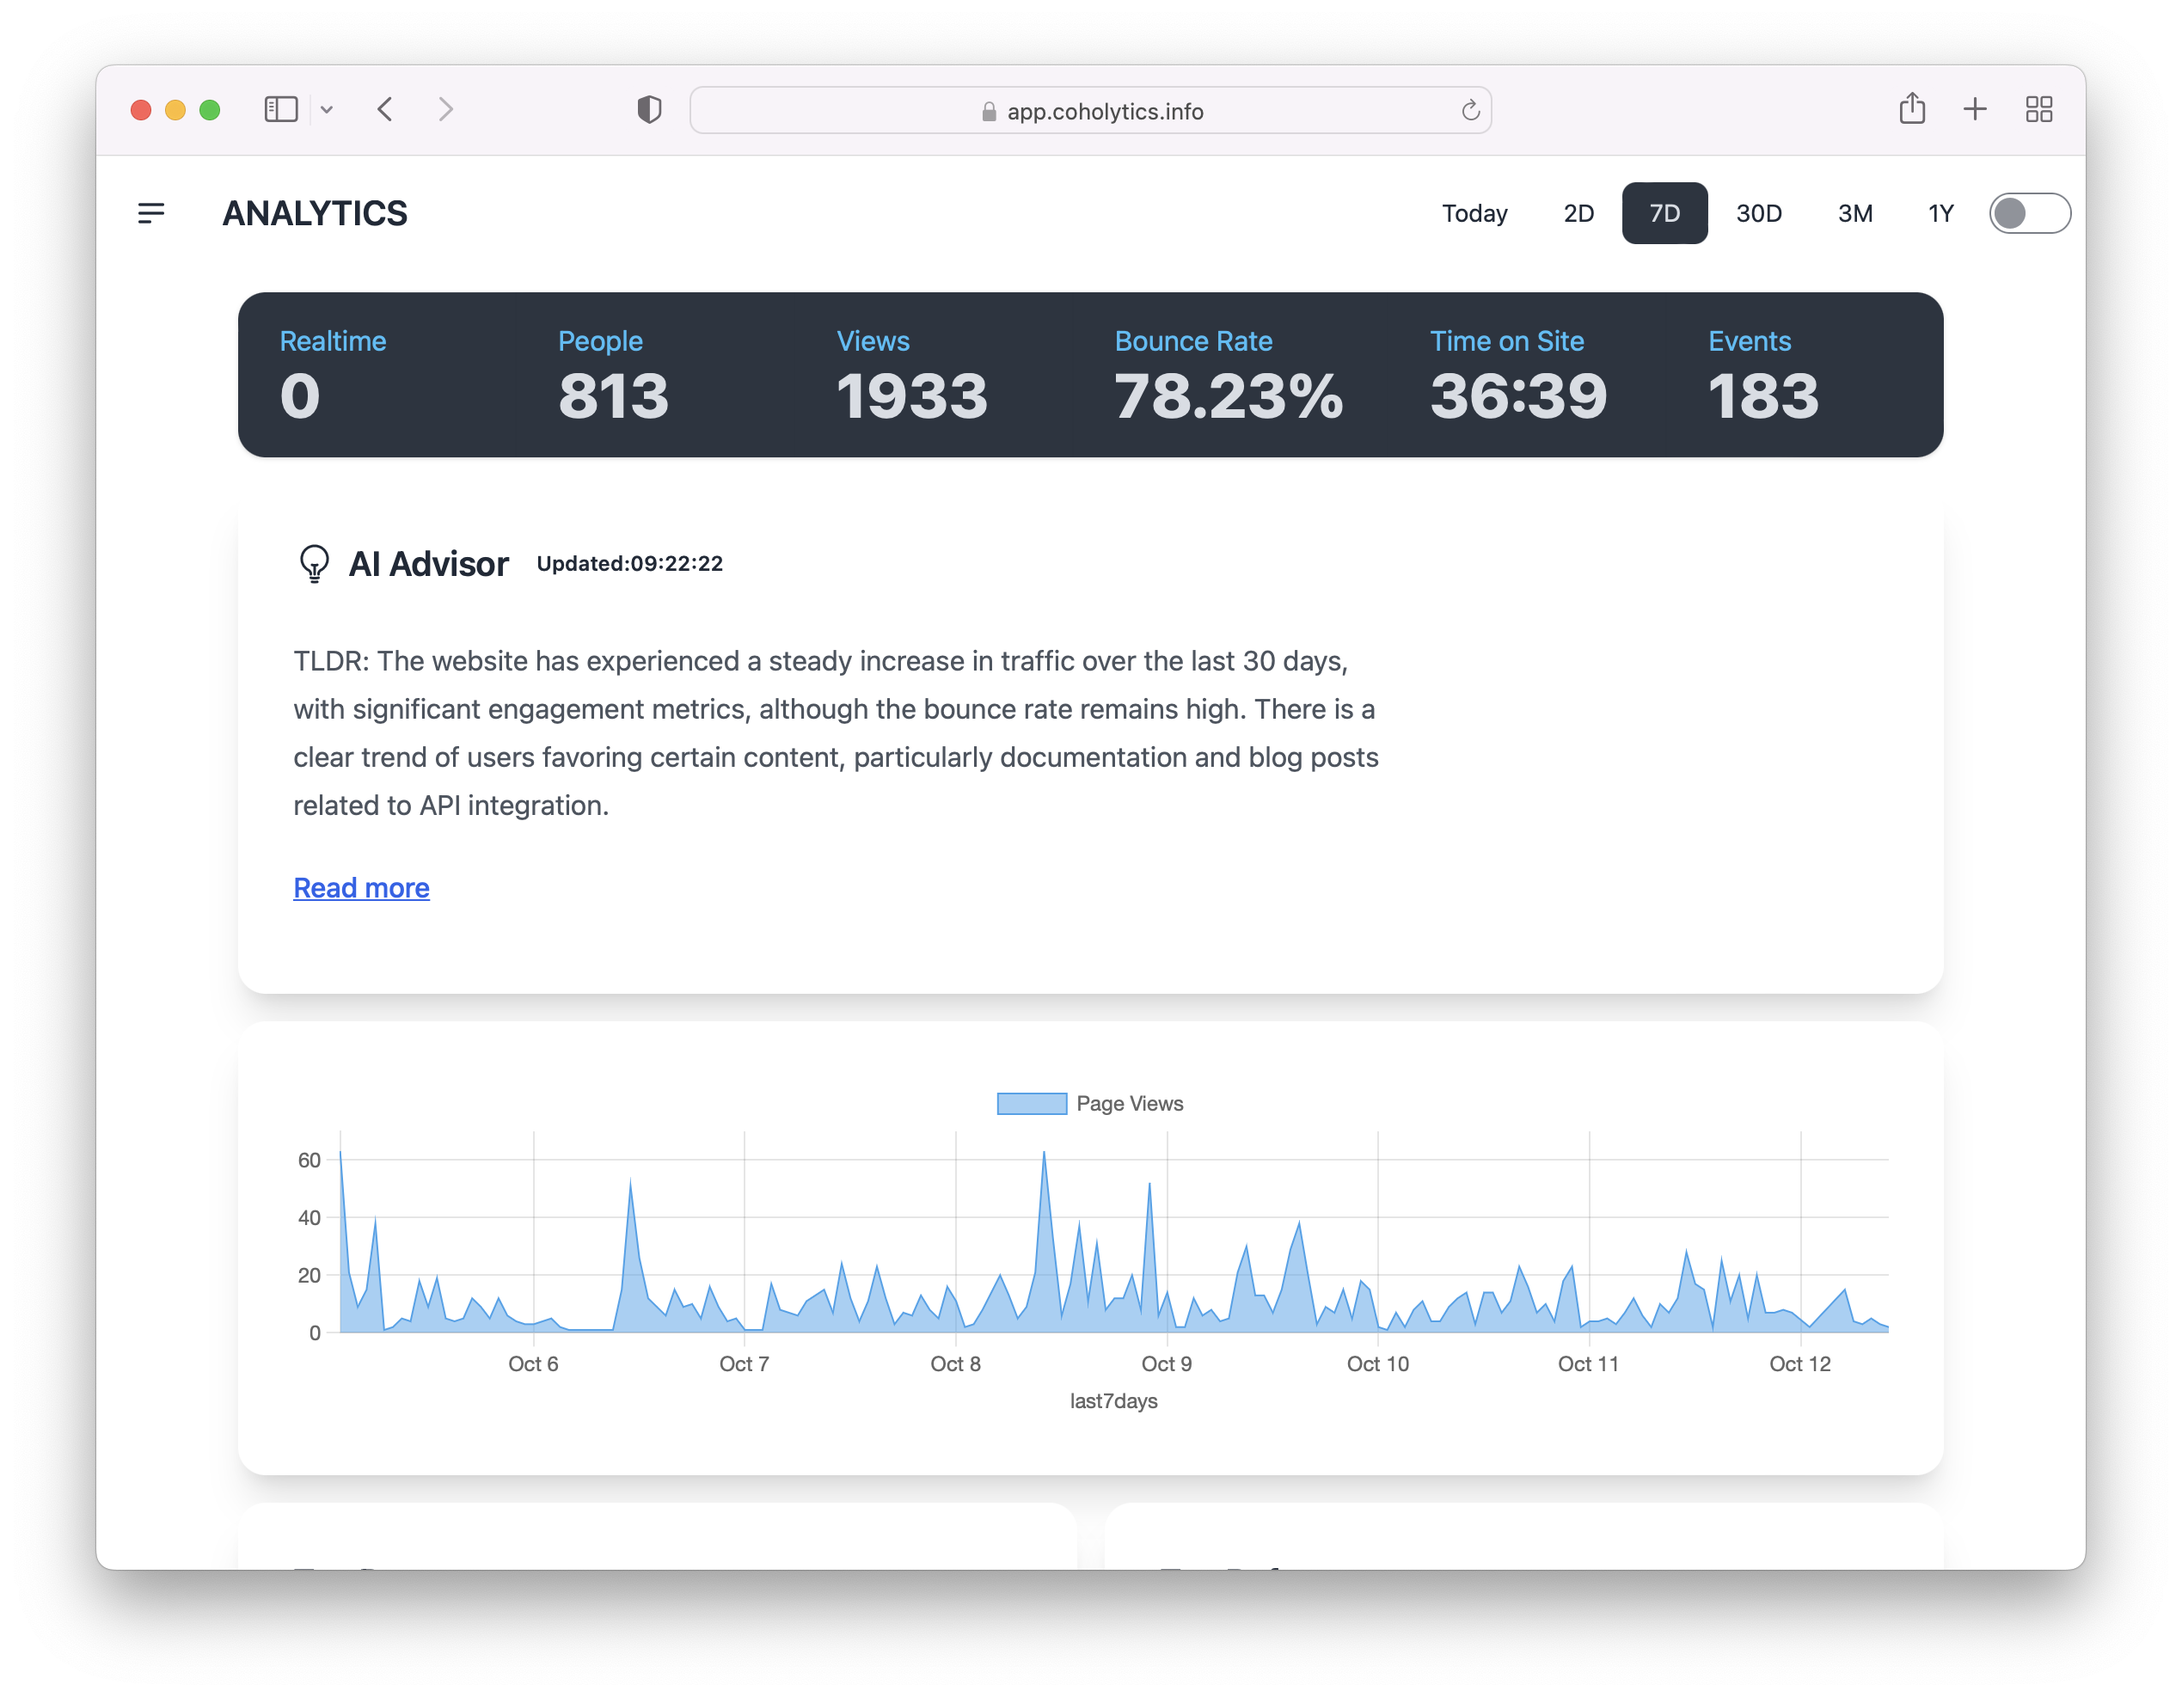
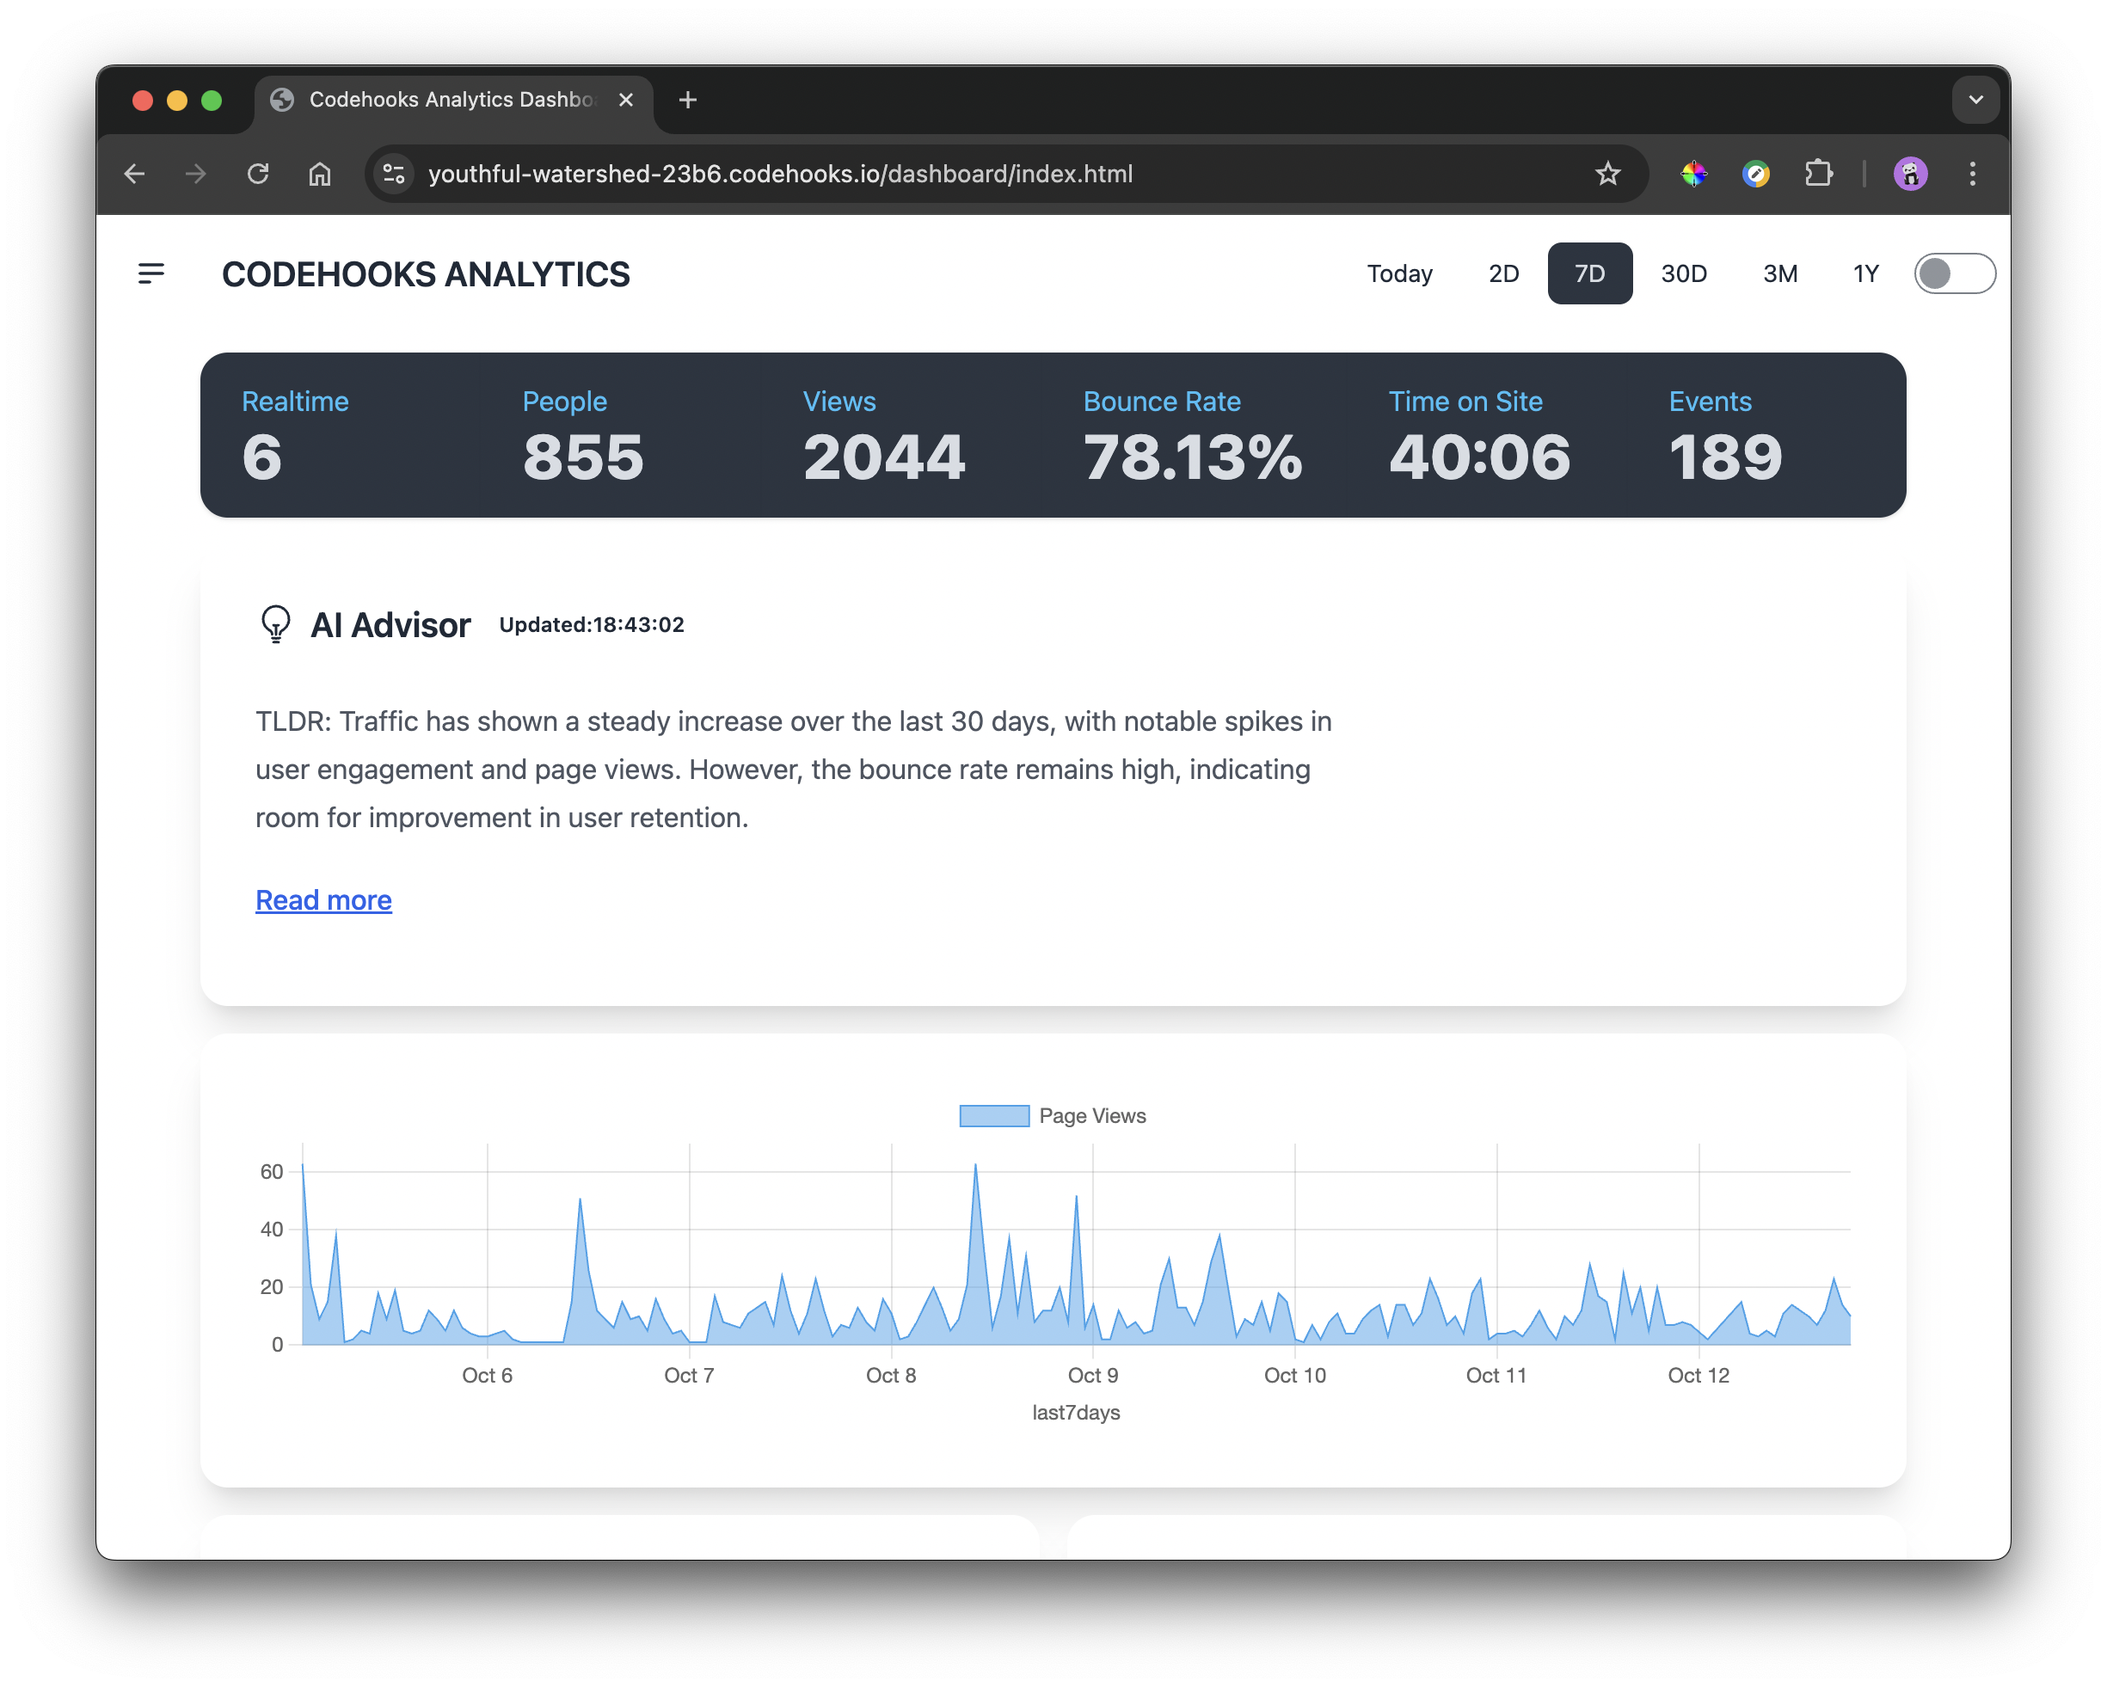
docs

Changed region(s): [[0.031, 0.0311, 0.9616, 0.9638], [0.1241, 0.6218, 0.8996, 0.8394]]

diff --git a/aiassist.js b/aiassist.js
@@ -37,7 +37,7 @@ Here's the web analytics data: ${JSON.stringify(data)}.
 
 Please provide the output in pure JSON format (no other text or markup) like this: 
 {
-    "ingress": "TLTR: 1-2 sentences",
+    "ingress": "TLDR;1-2 sentences",
     "recommendations": [
         "Recommendation 1",
         "Recommendation 2",

diff --git a/pages/script.js b/pages/script.js
@@ -4,7 +4,7 @@ import { normalizeUrl, urlToBrandName } from './utils.js';
 export function dashboard() {
     return {
         loading: true,
-        realtimeUsers: 0,
+        realtimeUsers: 6,
         period: 'day',
         uniqueUsers: 0,
         totalPageViews: 0,

diff --git a/pages/bundle.js b/pages/bundle.js
@@ -83,7 +83,7 @@
   function dashboard() {
     return {
       loading: true,
-      realtimeUsers: 0,
+      realtimeUsers: 6,
       period: "day",
       uniqueUsers: 0,
       totalPageViews: 0,

diff --git a/README.md b/README.md
@@ -1,6 +1,7 @@
 # WebAnalytics
 
-WebAnalytics is a custom web analytics tool to track your website traffic. This self-hosted (https://codehooks.io) solution gives you full control over your data and analytics.
+Codehooks Analytics is a custom web analytics tool to track your website(s) traffic. 
+This self-hosted (https://codehooks.io) solution gives you full control over your data and the analytics application.
 
 
 ## Features
